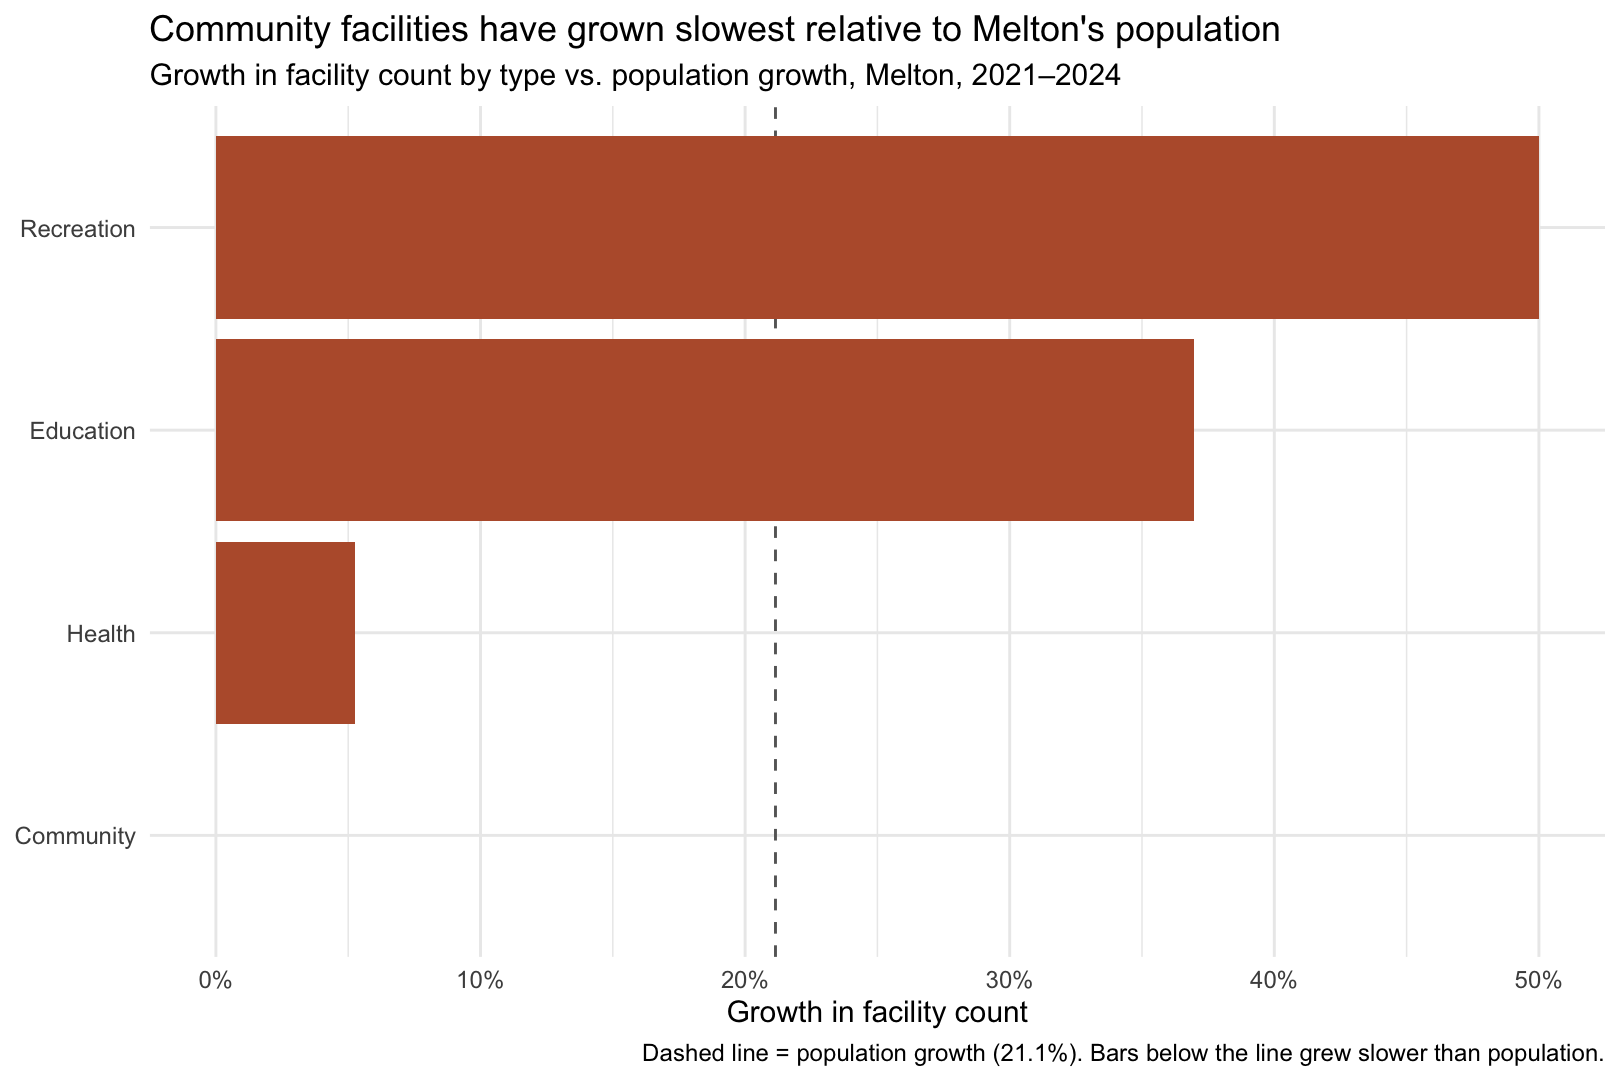
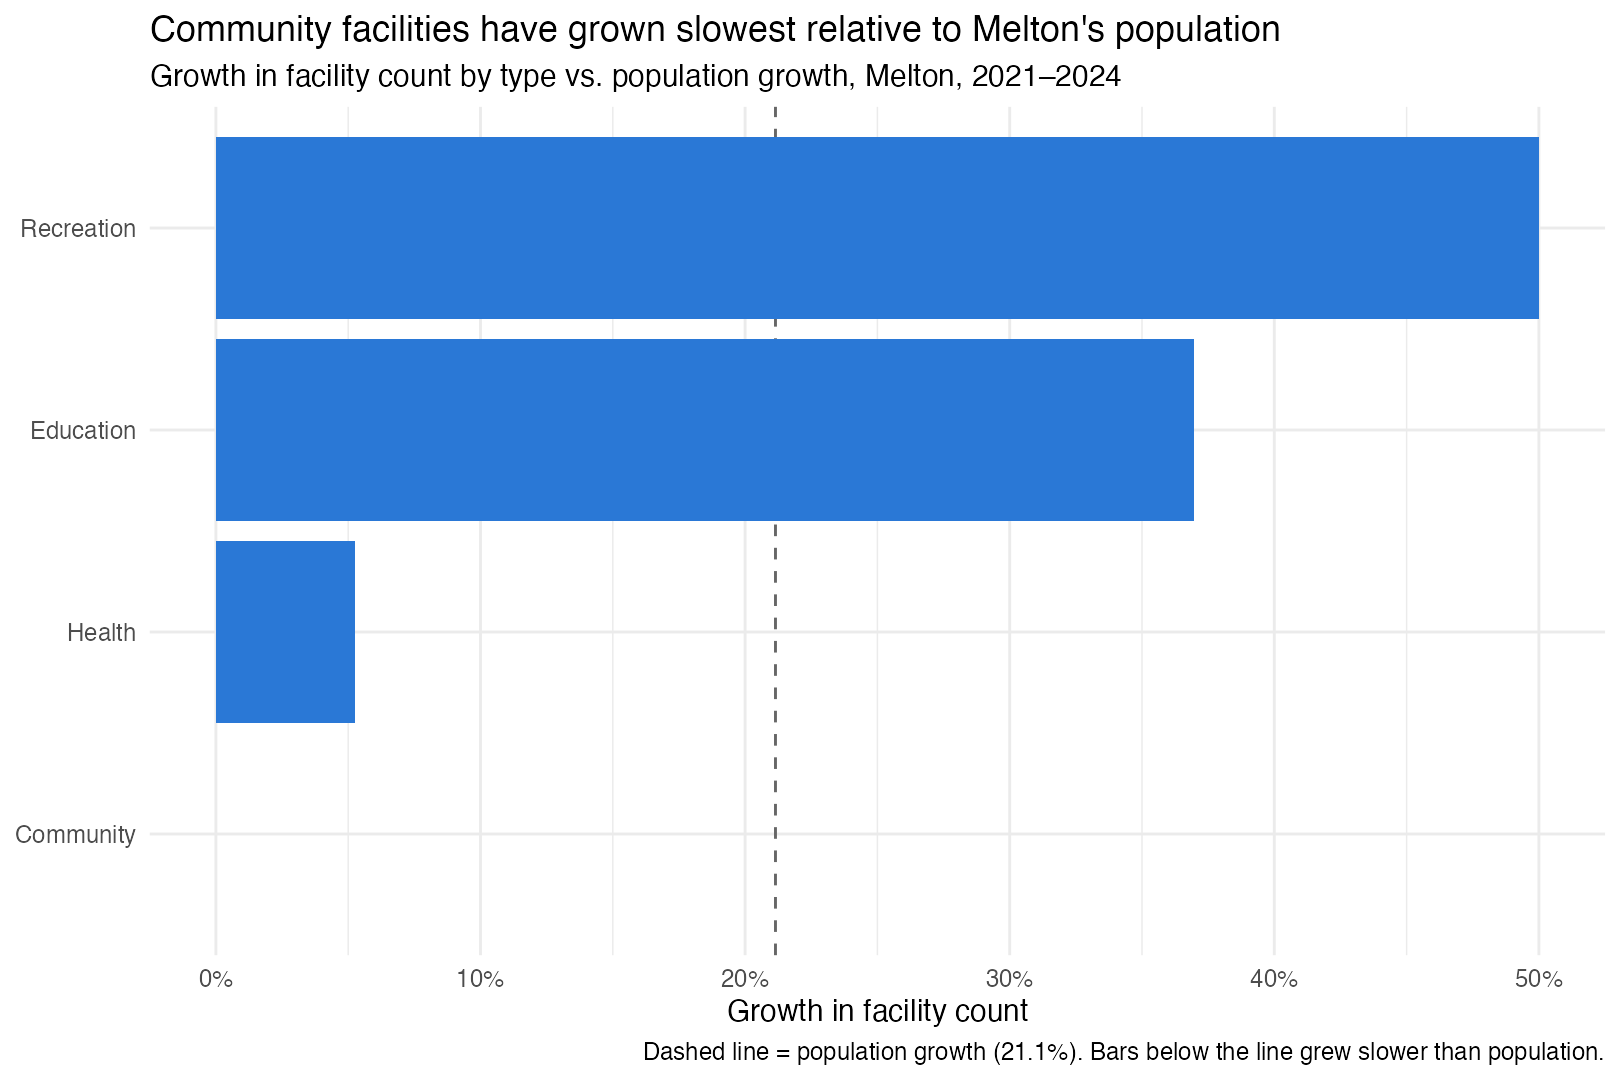
Publish site 2026-09-29 14:52

diff --git a/stories/melbourne/index.html b/stories/melbourne/index.html
@@ -242,6 +242,15 @@ Across Greater Melbourne, the median is about 2.3 facilities per 1,000 residents
 <script src="../../assets/js/growth-area-race.js"></script>
 <script src="../../assets/js/lga-selector.js" defer=""></script>
 <div class="data-note">
+<p><strong>Data sources.</strong></p>
+<ul>
+<li>Population: Australian Bureau of Statistics, <em>Regional population</em>, estimated resident population by SA2, 2010–2024. <a href="https://www.abs.gov.au/statistics/people/population/regional-population" class="uri">https://www.abs.gov.au/statistics/people/population/regional-population</a></li>
+<li>Facilities: Victorian Government, <em>Vicmap Features of Interest</em>, mapped community facility locations, 2010–2024. <a href="https://www.land.vic.gov.au/maps-and-spatial/spatial-data/vicmap-catalogue/vicmap-features-of-interest" class="uri">https://www.land.vic.gov.au/maps-and-spatial/spatial-data/vicmap-catalogue/vicmap-features-of-interest</a></li>
+<li>Boundaries: Australian Bureau of Statistics, <em>Australian Statistical Geography Standard (ASGS) Edition 3</em>, SA2 and Greater Capital City Statistical Area structures.</li>
+</ul>
+<p>These sources were combined by SA2 and year into a processed dataset (Suburban Futures population and facilities time series, University of Melbourne, 2026), which is not publicly available. The charts on this site show aggregated summaries from that dataset.</p>
+</div>
+<div class="data-note">
 <p><strong>Facilities.</strong> “Facilities” means mapped facility presence. Counts do not measure capacity, staffing, quality, opening hours or ease of access. Early Vicmap years can also reflect improvements in catalogue coverage, so recent comparisons are preferred.</p>
 </div>
 <div class="data-note">
@@ -669,8 +678,8 @@ Across Greater Melbourne, the median is about 2.3 facilities per 1,000 residents
 <p>Suburban Futures — Systems stories</p>
 </div>   
     <div class="nav-footer-center">
-      &nbsp;
-    </div>
+<p>Data: Australian Bureau of Statistics; Vicmap, Victorian Government</p>
+</div>
     <div class="nav-footer-right">
 <p>Built with Quarto, R and D3</p>
 </div>

diff --git a/assets/js/lga-selector.js b/assets/js/lga-selector.js
@@ -20,7 +20,10 @@
       });
 
   registryPromise
-    .then(({ rows }) => {
+    .then(({ rows: allRows }) => {
+      // List only councils with a published story page.
+      const rows = allRows.filter((row) => row.status === "published" && row.page_url);
+
       select.innerHTML = '<option value="">Choose an LGA…</option>';
 
       rows.forEach((lga) => {
@@ -40,30 +43,17 @@
           return;
         }
 
-        const identifierNote = lga.lga_code
-          ? `Official code: ${lga.lga_code}.`
-          : "The current source has no official LGA code, so its generated slug is used internally.";
-
-        if (lga.page_url) {
-          storyLink.href = (container.dataset.basePath || "") + lga.page_url;
-          storyLink.classList.remove("disabled");
-          storyLink.removeAttribute("aria-disabled");
-          status.textContent =
-            lga.status === "published"
-              ? `${identifierNote} Published stories are available.`
-              : `${identifierNote} This LGA page is available, but its public claims still require validation.`;
-        } else {
-          status.textContent =
-            `${identifierNote} Data is available, but no validated story page has been published yet.`;
-        }
+        storyLink.href = (container.dataset.basePath || "") + lga.page_url;
+        storyLink.classList.remove("disabled");
+        storyLink.removeAttribute("aria-disabled");
+        status.textContent = `Stories are available for ${lga.name}.`;
       });
 
-      status.textContent = `${rows.length} LGAs loaded from the current dataset.`;
+      status.textContent = `${rows.length} councils with published stories.`;
     })
     .catch((error) => {
       select.innerHTML = '<option value="">LGA list unavailable</option>';
-      status.textContent =
-        "The dynamic list could not load. Use the CSV download below.";
+      status.textContent = "The council list could not be loaded.";
       disableLink();
       console.error(error);
     });

diff --git a/stories/lgas/index.html b/stories/lgas/index.html
@@ -144,15 +144,14 @@ ul.task-list li input[type="checkbox"] {
 </p>
 <section id="choose-a-council-lga" class="level2">
 <h2 class="anchored" data-anchor-id="choose-a-council-lga">Choose a Council (LGA)</h2>
-<p>The list is generated from the cleaned source data whenever the site data is prepared. LGA names are not maintained manually in this page.</p>
+<p>Stories are available for the seven councils in Melbourne’s growth areas. Choose a council to see its local picture.</p>
 <div id="lga-selector" class="lga-selector" data-source="../../assets/data/lgas/index.json">
 <label for="lga-select">Council (Local Government Area)</label> <select id="lga-select" class="form-select"> <option value="">Loading LGA list…</option> </select>
 <p id="lga-selection-status" class="lga-selection-status" aria-live="polite">
 </p>
 <p><a id="lga-story-link" class="btn btn-primary disabled" aria-disabled="true">Open LGA stories</a></p>
 </div>
-<p>If JavaScript is unavailable, <a href="../../assets/data/lgas/index.csv">download the generated LGA list as CSV</a>.</p>
-<p>An LGA can appear in the list before it has a published story. Data availability is not the same as editorial validation.</p>
+<p>The council stories can also be opened directly: <a href="cardinia/index.html">Cardinia</a> · <a href="casey/index.html">Casey</a> · <a href="hume/index.html">Hume</a> · <a href="melton/index.html">Melton</a> · <a href="mitchell/index.html">Mitchell</a> · <a href="whittlesea/index.html">Whittlesea</a> · <a href="wyndham/index.html">Wyndham</a></p>
 
 
 </section>
@@ -570,8 +569,8 @@ ul.task-list li input[type="checkbox"] {
 <p>Suburban Futures — Systems stories</p>
 </div>   
     <div class="nav-footer-center">
-      &nbsp;
-    </div>
+<p>Data: Australian Bureau of Statistics; Vicmap, Victorian Government</p>
+</div>
     <div class="nav-footer-right">
 <p>Built with Quarto, R and D3</p>
 </div>

diff --git a/assets/js/growth-area-race.js b/assets/js/growth-area-race.js
@@ -15,8 +15,8 @@
   const tooltip = d3.select("#growth-area-race-tooltip");
   const STEPS_PER_YEAR = 8;
   const STEP_MS = 110;
-  const establishedColour = "#4A6670";
-  const growthColour = "#B85C38";
+  const establishedColour = "#2a78d6";
+  const growthColour = "#eb6834";
 
   const dataPromise = window.SUBURBAN_FUTURES_COUNCIL_POPULATION
     ? Promise.resolve(window.SUBURBAN_FUTURES_COUNCIL_POPULATION)
@@ -98,9 +98,7 @@
       .attr("text-anchor", "end")
       .attr("font-size", 46)
       .attr("font-weight", 700)
-      .attr("fill", "#e7dfce")
-      .attr("stroke", "#4A6670")
-      .attr("stroke-width", 0.5);
+      .attr("fill", "#d9d7d0");
 
     const totalText = svg
       .append("text")

diff --git a/assets/js/lga-population-facilities.js b/assets/js/lga-population-facilities.js
@@ -5,9 +5,9 @@
   const source = container.dataset.source;
   const tooltip = d3.select("#lga-scatter-tooltip");
   const colours = {
-    "Established areas": "#00796b",
-    "Growth corridors": "#d95f02",
-    "Mixed areas": "#6a51a3"
+    "Established areas": "#2a78d6",
+    "Growth corridors": "#eb6834",
+    "Mixed areas": "#1baf7a"
   };
 
   const dataPromise = window.SUBURBAN_FUTURES_POPULATION_FACILITIES

diff --git a/index.html b/index.html
@@ -630,8 +630,8 @@ Growth-area councils have far more suburbs in hyper-growth than the rest of the 
 <p>Suburban Futures — Systems stories</p>
 </div>   
     <div class="nav-footer-center">
-      &nbsp;
-    </div>
+<p>Data: Australian Bureau of Statistics; Vicmap, Victorian Government</p>
+</div>
     <div class="nav-footer-right">
 <p>Built with Quarto, R and D3</p>
 </div>

diff --git a/stories/lgas/cardinia/index.html b/stories/lgas/cardinia/index.html
@@ -575,8 +575,8 @@ Community facilities have stalled in Cardinia — 36 in both 2021 and 2024 — w
 <p>Suburban Futures — Systems stories</p>
 </div>   
     <div class="nav-footer-center">
-      &nbsp;
-    </div>
+<p>Data: Australian Bureau of Statistics; Vicmap, Victorian Government</p>
+</div>
     <div class="nav-footer-right">
 <p>Built with Quarto, R and D3</p>
 </div>

diff --git a/stories/lgas/casey/index.html b/stories/lgas/casey/index.html
@@ -575,8 +575,8 @@ Community facilities are furthest behind in Casey, growing just 5% (38 to 40) ag
 <p>Suburban Futures — Systems stories</p>
 </div>   
     <div class="nav-footer-center">
-      &nbsp;
-    </div>
+<p>Data: Australian Bureau of Statistics; Vicmap, Victorian Government</p>
+</div>
     <div class="nav-footer-right">
 <p>Built with Quarto, R and D3</p>
 </div>

diff --git a/stories/lgas/hume/index.html b/stories/lgas/hume/index.html
@@ -575,8 +575,8 @@ Recreation facilities are furthest behind in Hume, growing just 1% (155 to 157) 
 <p>Suburban Futures — Systems stories</p>
 </div>   
     <div class="nav-footer-center">
-      &nbsp;
-    </div>
+<p>Data: Australian Bureau of Statistics; Vicmap, Victorian Government</p>
+</div>
     <div class="nav-footer-right">
 <p>Built with Quarto, R and D3</p>
 </div>

diff --git a/stories/lgas/melton/index.html b/stories/lgas/melton/index.html
@@ -575,8 +575,8 @@ Community facilities have stalled in Melton — 24 in both 2021 and 2024 — whi
 <p>Suburban Futures — Systems stories</p>
 </div>   
     <div class="nav-footer-center">
-      &nbsp;
-    </div>
+<p>Data: Australian Bureau of Statistics; Vicmap, Victorian Government</p>
+</div>
     <div class="nav-footer-right">
 <p>Built with Quarto, R and D3</p>
 </div>

diff --git a/stories/lgas/mitchell/index.html b/stories/lgas/mitchell/index.html
@@ -572,8 +572,8 @@ Community facilities have stalled in Mitchell — 10 in both 2021 and 2024 — w
 <p>Suburban Futures — Systems stories</p>
 </div>   
     <div class="nav-footer-center">
-      &nbsp;
-    </div>
+<p>Data: Australian Bureau of Statistics; Vicmap, Victorian Government</p>
+</div>
     <div class="nav-footer-right">
 <p>Built with Quarto, R and D3</p>
 </div>

diff --git a/stories/lgas/whittlesea/index.html b/stories/lgas/whittlesea/index.html
@@ -575,8 +575,8 @@ Recreation facilities are furthest behind in Whittlesea, growing less than 1% (2
 <p>Suburban Futures — Systems stories</p>
 </div>   
     <div class="nav-footer-center">
-      &nbsp;
-    </div>
+<p>Data: Australian Bureau of Statistics; Vicmap, Victorian Government</p>
+</div>
     <div class="nav-footer-right">
 <p>Built with Quarto, R and D3</p>
 </div>
